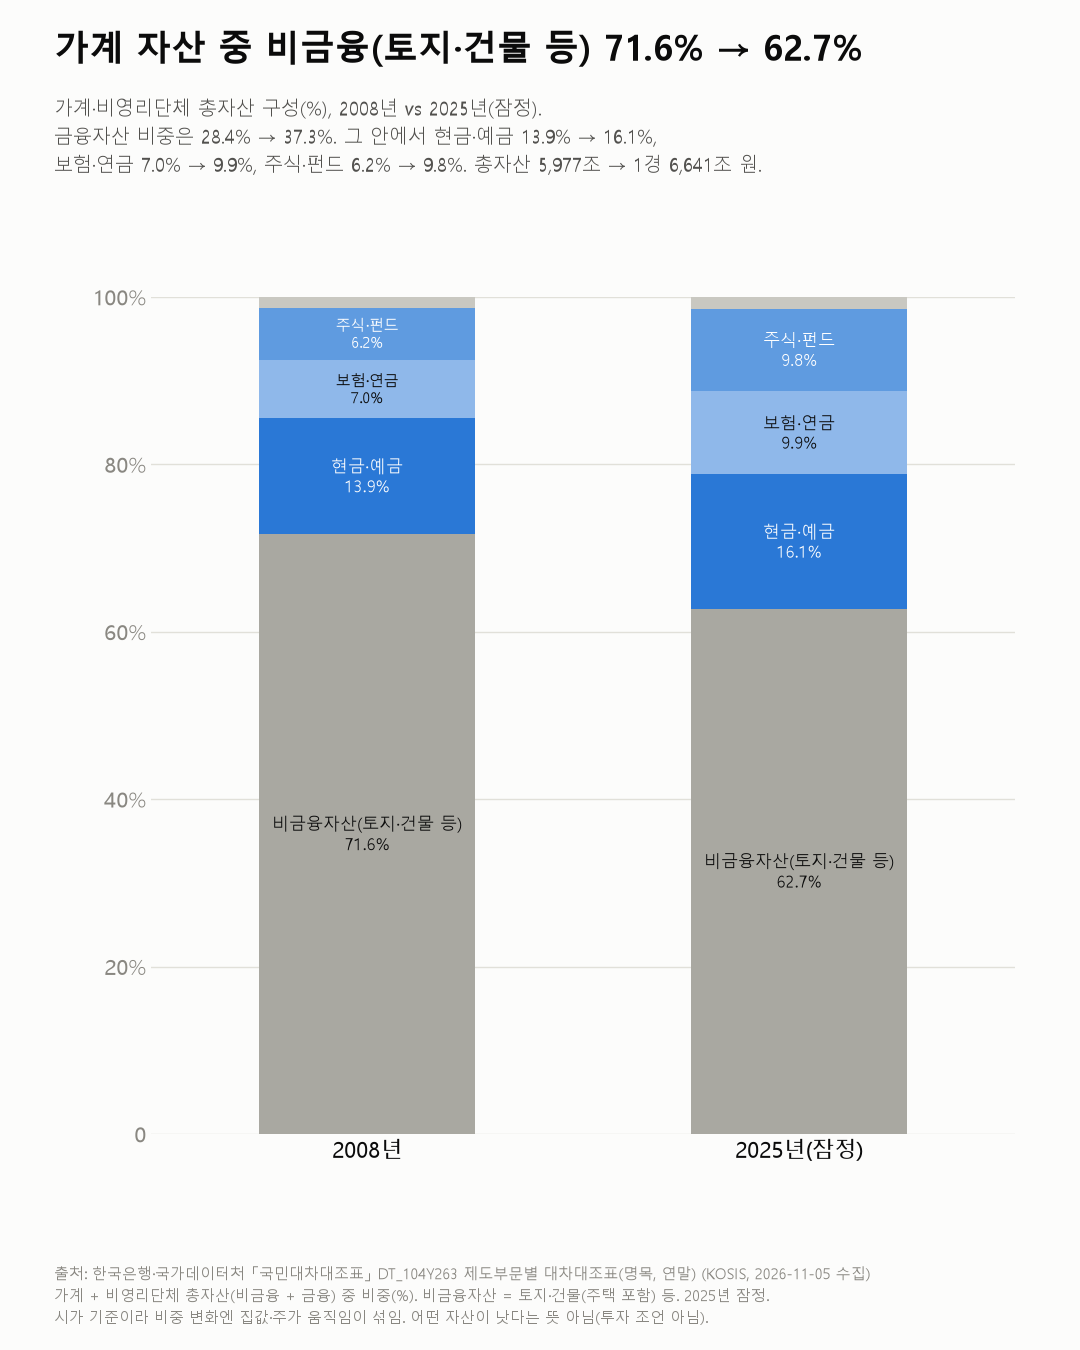
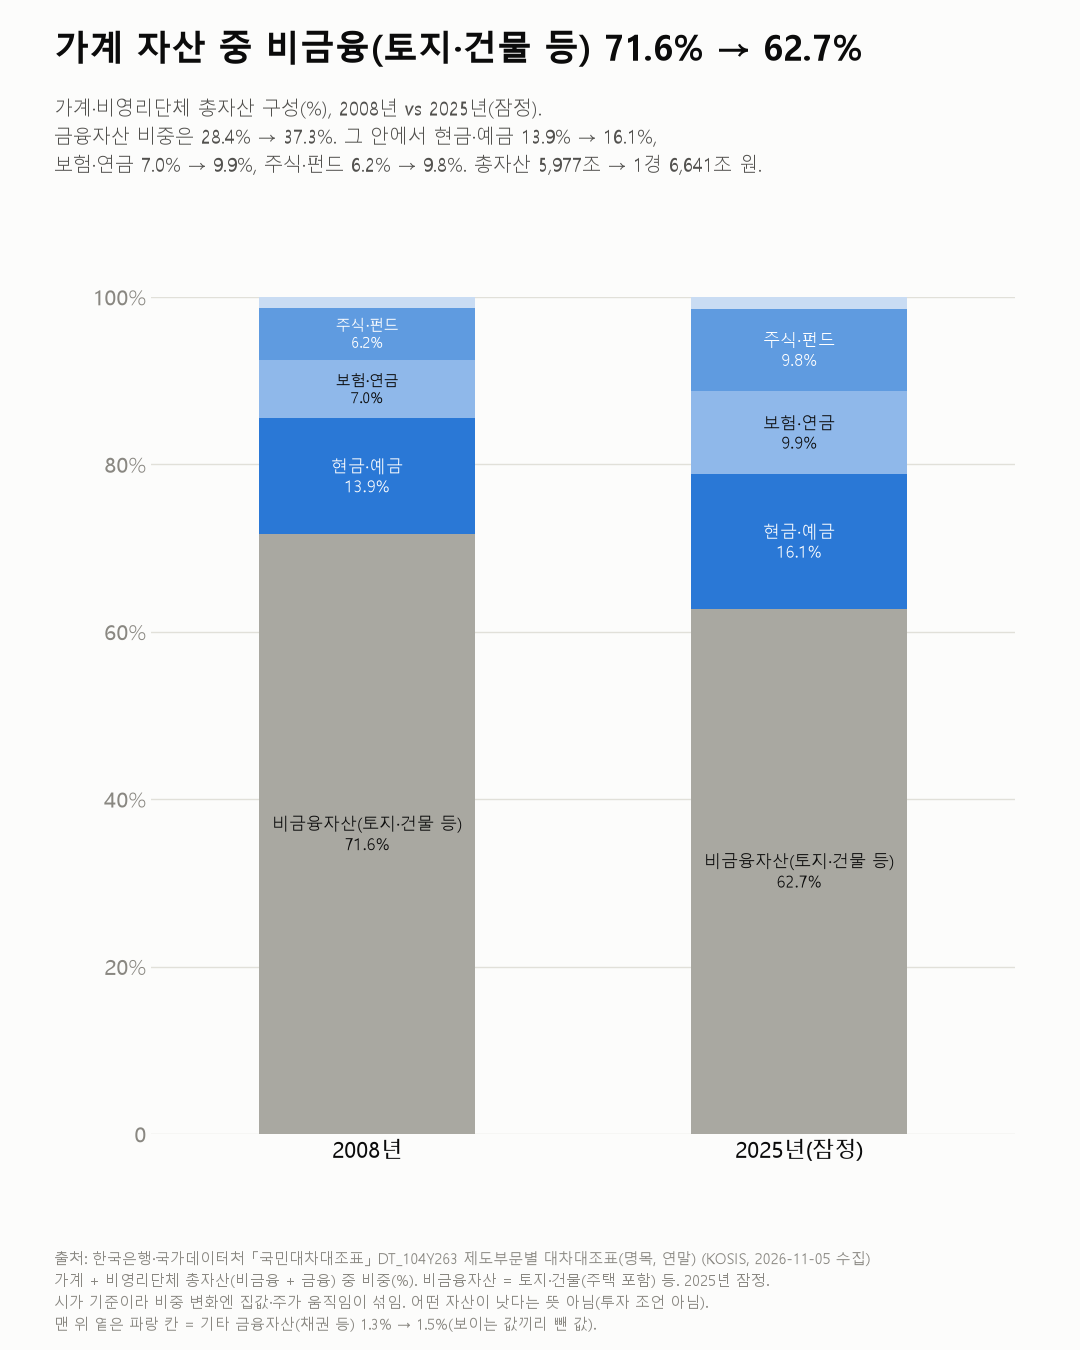
사이트 갱신

Changed region(s): [[0.0306, 0.9333, 0.7944, 0.9956], [0.6417, 0.2178, 0.8556, 0.2489], [0.2444, 0.2178, 0.4583, 0.2489]]

diff --git a/2026-11_household-wealth/index.html b/2026-11_household-wealth/index.html
@@ -57,7 +57,7 @@
 <p><strong>1. 2025년 말 가계·비영리단체 순자산은 1경 4,200조 원(잠정), 2008년(5,118조)의 2.8배.</strong> 1년 새 1,167조 원(9.0%) 늘었다.</p>
 <p><strong>2. 2025년 늘어난 것 중 주식·펀드가 +525조 원, 토지가 +416조 원.</strong> 시가 기준이라 주가·집값이 오른 몫이다.</p>
 <p><strong>3. 총자산 중 비금융자산(토지·건물 등) 비중은 2008년 71.6% → 2025년 62.7%.</strong> 금융자산은 28.4% → 37.3%.</p>
-<p><strong>4. 금융자산 안에서는 현금·예금 13.9% → 16.1%, 보험·연금 7.0% → 9.9%, 주식·펀드 6.2% → 9.8%(총자산 대비).</strong></p>
+<p><strong>4. 금융자산 안에서는 현금·예금 13.9% → 16.1%, 보험·연금 7.0% → 9.9%, 주식·펀드 6.2% → 9.8%(총자산 대비).</strong> 나머지 1.3% → 1.5%는 채권 등 기타 금융자산이다.</p>
 <p><a class="chart-link" href="chart_wealth_mix.png" title="원본 크기로 보기"><img alt="자산 구성" src="chart_wealth_mix.png" /></a></p>
 </section><section class="sec sec-limits"><h2>한계</h2><p class="sec-note">이 데이터로 말할 수 없는 것</p>
 <ul>
